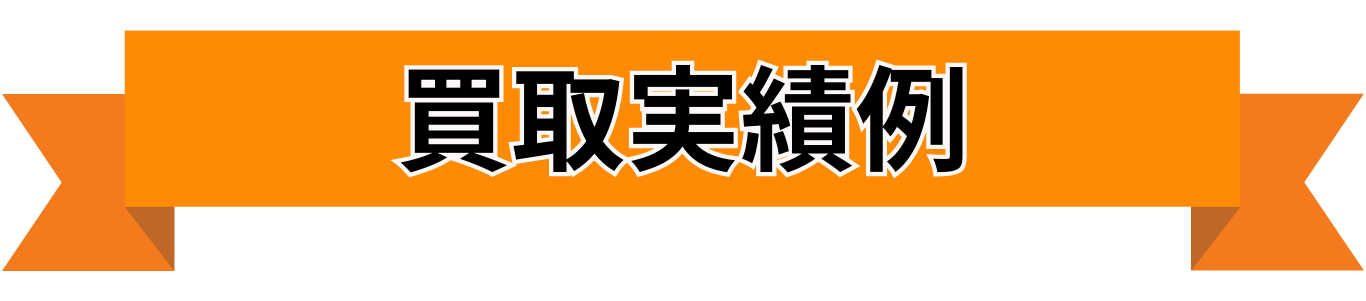
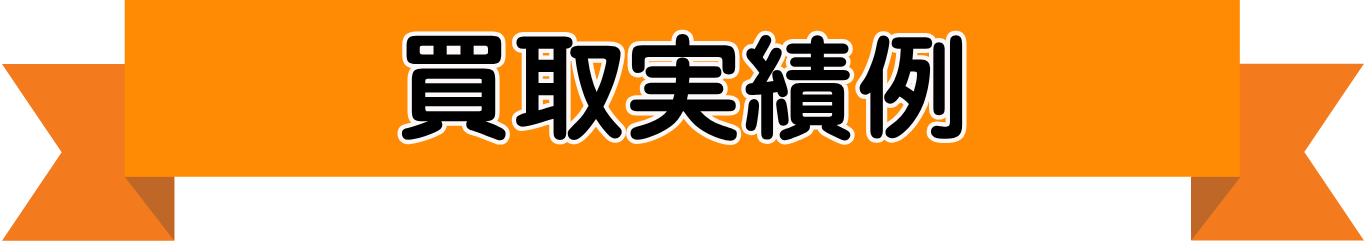
フォント調整

diff --git a/index.html b/index.html
@@ -40,6 +40,10 @@
 
 	<link rel="icon" href="https://www.kaitorismart.jp/img/favicon.ico" type="image/x-icon">
 	<link rel="apple-touch-icon" href="https://www.kaitorismart.jp/img/apple-touch-icon.png">
+	<link rel="preconnect" href="https://fonts.googleapis.com">
+	<link rel="preconnect" href="https://fonts.gstatic.com" crossorigin>
+	<link href="https://fonts.googleapis.com/css2?family=M+PLUS+Rounded+1c&family=Zen+Maru+Gothic&display=swap"
+		rel="stylesheet">
 	<script type="application/ld+json">
 {
   "@context": "https://schema.org",
@@ -163,7 +167,8 @@
 	<section class="purchase-items">
 		<div class="container">
 			<img src="img/purchase_title.png" class="purchase-items_title">
-			<p>ご自宅に眠っている不用品が思わぬ値段になることも！</p>
+			<p style="font-family: 'M PLUS Rounded 1c', sans-serif; font-weight:700; letter-spacing:.02em;">
+				ご自宅に眠っている不用品が思わぬ値段になることも！</p>
 			<div class="items-grid-container">
 				<ul class="items-grid4">
 					<li class="item">
@@ -276,7 +281,7 @@
 				</div>
 				<div class="reason-content">
 					<div class="reason-theme-child">
-						<p>確かな鑑定眼で<br>最適価格査定！</p>
+						<p style="font-family: 'M PLUS Rounded 1c', sans-serif; font-weight:700; letter-spacing:.02em;">確かな鑑定眼で<br>最適価格査定！</p style="font-family: 'M PLUS Rounded 1c', sans-serif; font-weight:700; letter-spacing:.02em;">
 					</div>
 					<div class="reason-description">
 						<p>5万社を超える企業様と、弊社独自のマーケットを持つ買取スマートだからこそ実現できる業界随一の高額査定が可能です。</p>
@@ -291,7 +296,8 @@
 				</div>
 				<div class="reason-content">
 					<div class="reason-theme-child">
-						<p>電話一本<br>即日出張査定！</p>
+						<p style="font-family: 'M PLUS Rounded 1c', sans-serif; font-weight:700; letter-spacing:.02em;">
+							電話一本<br>即日出張査定！</p>
 					</div>
 					<div class="reason-description">
 						<p>お電話するだけで即日専門知識を持ったベテランスタッフがお伺いさせていただくので、迅速かつ正確な査定が可能です。</p>
@@ -306,7 +312,7 @@
 				</div>
 				<div class="reason-content">
 					<div class="reason-theme-child">
-						<p>買取実績<br>34,000件以上！</p>
+						<p style="font-family: 'M PLUS Rounded 1c', sans-serif; font-weight:700; letter-spacing:.02em;">買取実績<br>34,000件以上！</p>
 					</div>
 					<div class="reason-description">
 						<p>お電話するだけで即日専門知識を持ったベテランスタッフがお伺いさせていただくので、迅速かつ正確な査定が可能です。</p>

diff --git a/css/jisseki.css b/css/jisseki.css
@@ -85,6 +85,9 @@
 }
 
 .result-info .category {
+	font-family: "M PLUS Rounded 1c", sans-serif;
+	font-weight: 400;
+	font-style: normal;
 	display: inline-block;
 	background-color: #002b80;
 	color: #fff;
@@ -225,7 +228,7 @@
 		left: 0;
 		width: 100%;
 		height: 100px;
-/*		background: linear-gradient(to bottom, rgba(255, 255, 255, 0) 0%, rgba(255, 255, 255, 1) 100%);*/
+		/*		background: linear-gradient(to bottom, rgba(255, 255, 255, 0) 0%, rgba(255, 255, 255, 1) 100%);*/
 		pointer-events: none;
 		display: block;
 	}

diff --git a/css/cta.css b/css/cta.css
@@ -4,10 +4,9 @@
 	align-items: center;
 	justify-content: center;
 	text-align: center;
-	padding-bottom: 40px;
 	background: linear-gradient(to bottom,
 			#ffffff 0%,
-			#ffffff 85%,
+			#ffffff 90%,
 			#fcaf10 100%);
 }
 
@@ -73,7 +72,7 @@
 			#ffffff 0%,
 			#fcaf10 50%,
 			#ffffff 100%);
-	padding: 50px 0;
+	padding: 10px 0;
 }
 
 .achivementNums_image {
@@ -92,7 +91,7 @@
 	justify-content: center;
 	align-items: center;
 	/* 上下に余白 */
-	padding-top: 80px;
+	padding-top: 10px;
 
 }
 

diff --git a/css/about.css b/css/about.css
@@ -10,7 +10,7 @@
 }
 
 .threeReasons{
-	width: 80%;
+	width: 100%;
 	max-width: 1300px;
 	display: flex;
 	margin:auto;
